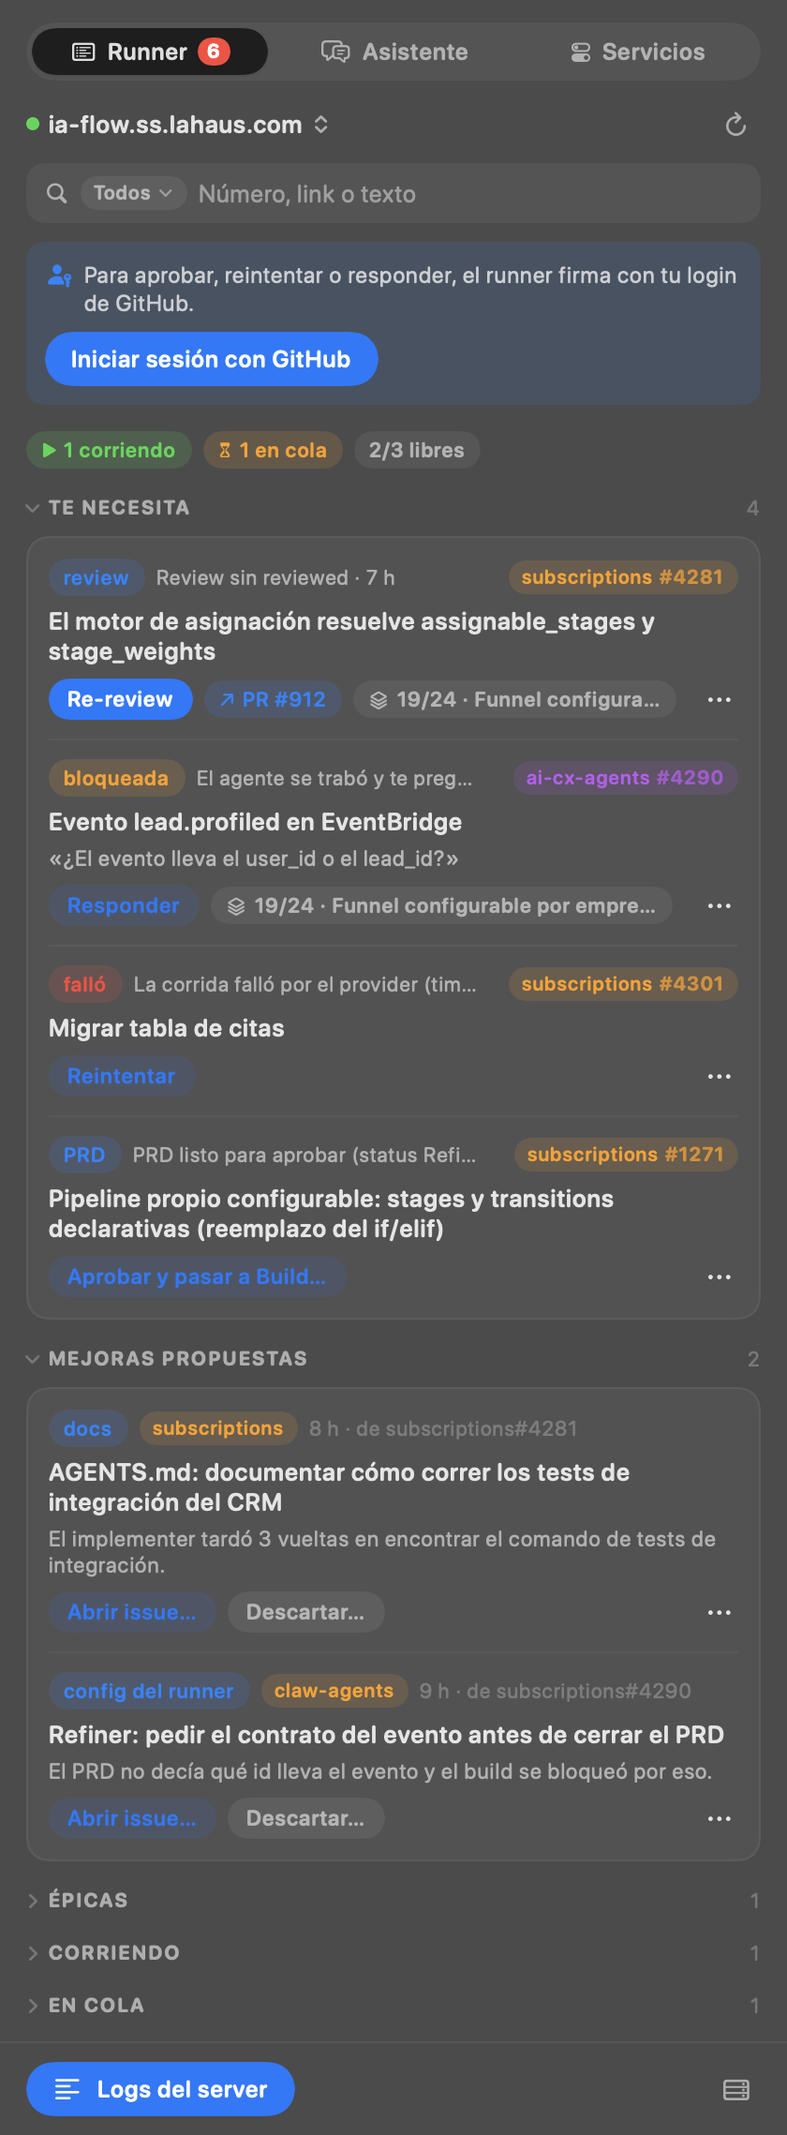
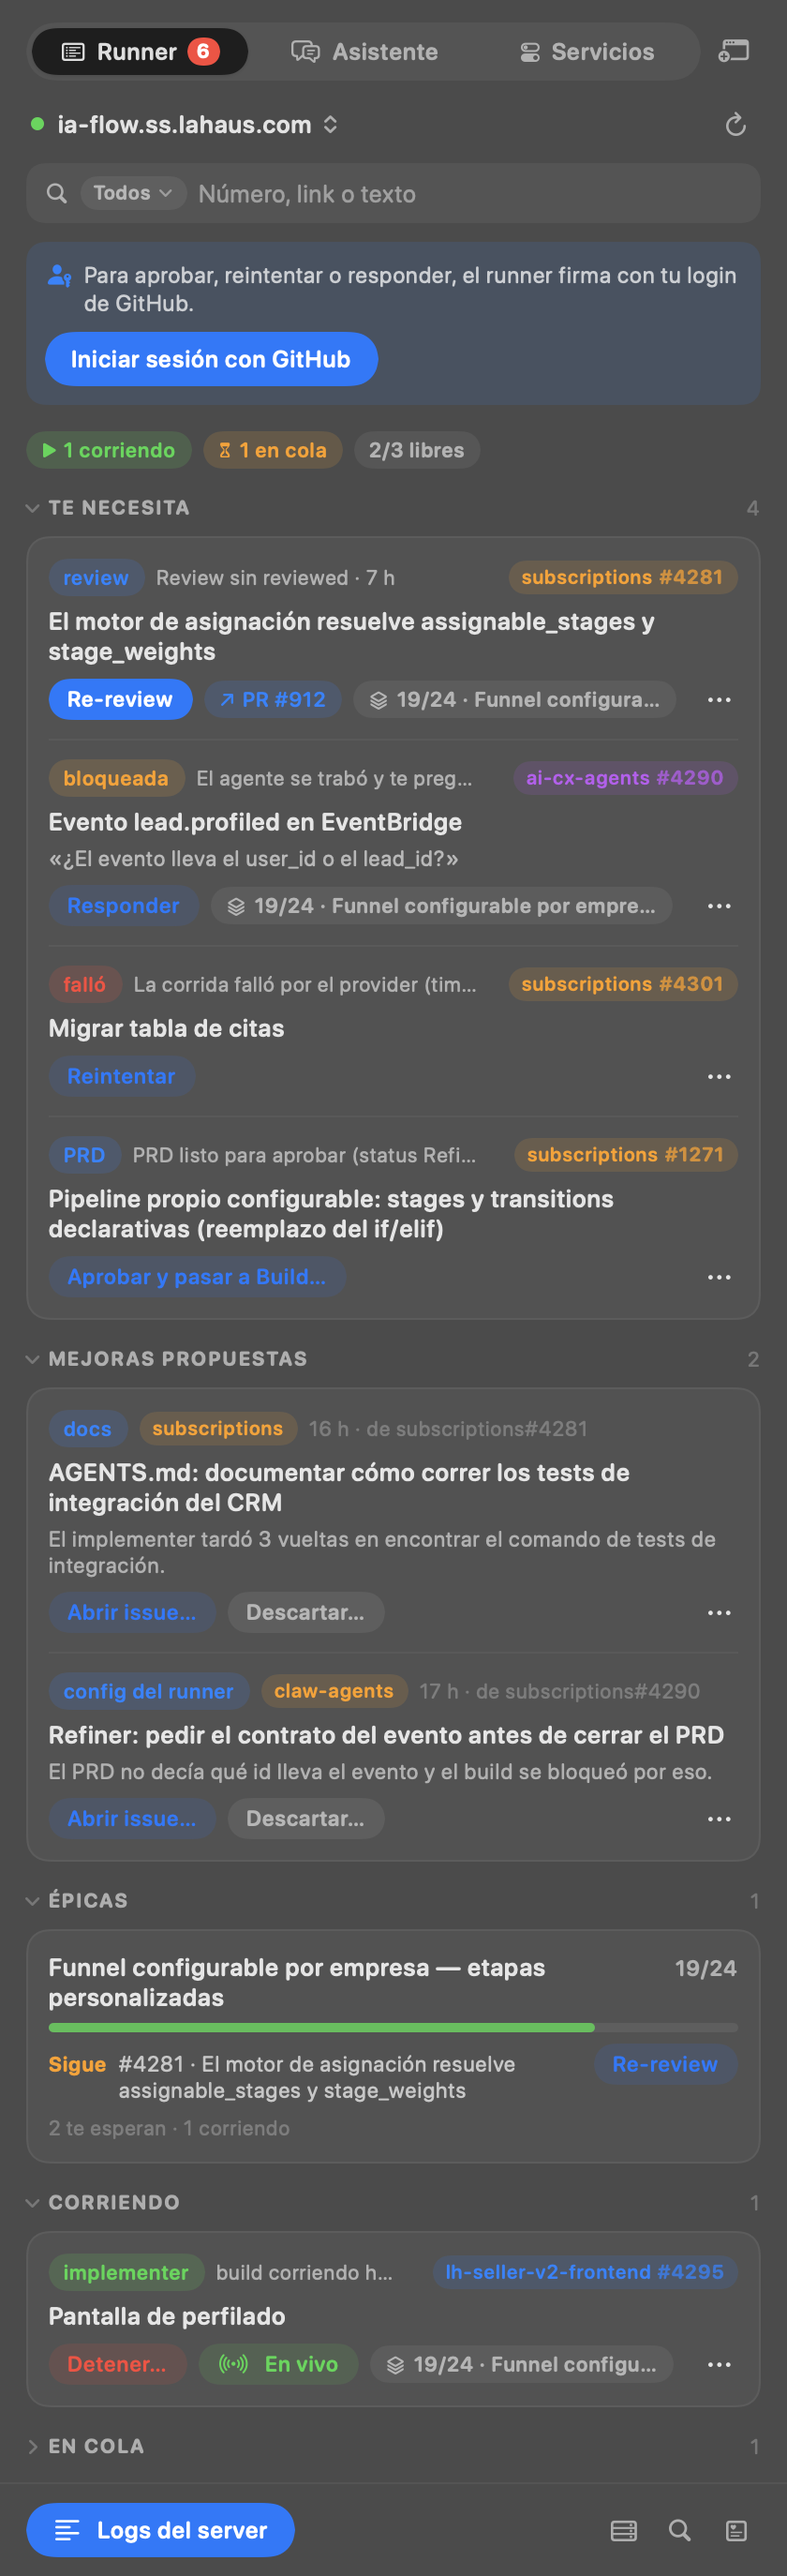
docs(menubar): «Buscar en GitHub», el stream y sus capturas

diff --git a/apps/menubar/README.md b/apps/menubar/README.md
@@ -40,12 +40,24 @@ con su acción), las **mejoras propuestas** por la retrospectiva (abrirlas como 
 **corre** (con «Detener…») y la **cola**. Cada sección se colapsa con un clic en su título.
 **Buscador:** un tag al inicio elige el repo (o todos; filtra todo aunque no se escriba nada) y cada tarea lleva el tag de su repo, del mismo color. Acepta `1775`, `#1775`, `subscriptions#1775`, `la-haus/subscriptions#1775`, el link del issue o del
 PR, o texto del título (aproximado: sin tildes, palabras en cualquier orden, prefijos y typos); filtra todas las secciones (buscar una épica trae sus tareas) y busca también en el resto
-del board (`/api/board`): las primeras coincidencias se traen con sus acciones (`/api/tasks/:owner/:repo/:n`). Con
-login de GitHub busca además en **todos los repos de la organización** (aunque no estén en el board): issues por
-título (`search/issues`, desde 3 letras, respeta el repo elegido), la ref exacta (`repo#n` también de un repo
-fuera del board) o un número suelto (se pide en el repo elegido, o en los del board y los 15 de actividad más
-reciente, en paralelo); el tag de repo suma «Más repos de la organización» (todos los que ve tu login); va directo a api.github.com con tu
-token, sólo lee y cada resultado sólo se abre en el navegador —no pasa por el runner ni toca el board—. **En vivo:** una tarea que corre trae «En vivo» (y cualquier tarea, «Ver la última ejecución» en ⋯): la traza de la
+del board (`/api/board`): las primeras coincidencias se traen con sus acciones (`/api/tasks/:owner/:repo/:n`). Es
+sólo del runner; termina en «Buscar «…» en GitHub →», que abre la pantalla de GitHub con lo escrito y el repo del tag.
+
+**Buscar en GitHub** (la 🔍 al pie de la bandeja): issues y PRs de **cualquier repo de la organización**, estén o no
+en el board. Un selector de repo propio, filtrable (todos los que ve tu login, `GET /orgs/:org/repos`, cache 1 h): los
+del board primero, después por actividad; recuerda el último. Con un repo, un número va directo a ese issue o PR y el
+texto busca en el título; con toda la organización, el texto busca por título (`search/issues`, desde 3 letras) y un
+número pide elegir repo (GitHub no busca por número en toda la org). `repo#n`, `owner/repo#n` y el link van directo.
+Va a api.github.com con tu login, sólo lee y cada resultado sólo se abre en el navegador: no pasa por el runner ni
+toca el board.
+
+**Al día:** con el popover o la ventana abiertos, el menú escucha `GET /api/stream` (SSE, como la web) y relee la
+bandeja y las mejoras cuando algo cambia (varios cambios seguidos, una sola relectura); «En vivo» se relee con la traza
+de su ejecución. El puntito del server lleva un halo mientras el stream está conectado. Si se corta, reconecta (1 s …
+30 s); tras 3 fallas (o con un runner sin stream) vuelve a releer la bandeja cada 6 s. Con todo cerrado no queda
+ninguna conexión: sólo el badge, cada minuto.
+
+**En vivo:** una tarea que corre trae «En vivo» (y cualquier tarea, «Ver la última ejecución» en ⋯): la traza de la
 ejecución que el runner guarda mientras corre (`GET /api/tasks/:owner/:repo/:n?execution=`, cada 3 s), plegada en pasos —
 cada tool una vez con su descripción o comando, el resultado y cuánto tardó (clic para ver input y resultado), los
 avisos del workspace, el prompt—, qué está haciendo ahora, tokens y duración; las ejecuciones anteriores en el reloj
@@ -57,6 +69,8 @@ tareas y mejoras que te esperan en el runner elegido (se relee cada minuto con e
 ![runner](screenshot-runner-dark.png)
 
 ![en vivo](screenshot-run-dark.png)
+
+![buscar en GitHub](screenshot-search-gh-dark.png)
 
 **Pestaña «Asistente»:** el chat del asistente del runner (`POST /api/assistant`, streaming), sobre todo el runner
 o sobre una tarea («Preguntar sobre esta tarea…» en el ⋯ de cada fila). Lo que propone (una acción sobre una tarea,
@@ -75,8 +89,9 @@ sigue llegando aunque se cierre el popover.
 Estructura: `Core.swift` (config, cloudflared y API de Cloudflare), `Service.swift` (proceso, detached o adoptado),
 `Model.swift` (estado y acciones), `Components.swift` y `Views.swift` (SwiftUI), `Icon.swift` (glifo y badge),
 `RunnerAPI.swift` (cliente HTTP del runner y su contrato), `RunnerModel.swift` (estado de la pestaña Runner),
-`RunnerViews.swift` (sus pantallas), `RunnerSearch.swift` (qué se busca y qué coincide), `GithubSearch.swift` (la
-búsqueda en toda la organización), `RunTrace.swift` (la traza de
+`RunnerViews.swift` (sus pantallas), `RunnerSearch.swift` (qué se busca y qué coincide), `RunnerStream.swift` (el
+stream SSE), `GithubSearch.swift` (la API de GitHub), `GithubSearchModel.swift` y `GithubSearchViews.swift` (la
+pantalla «Buscar en GitHub»), `RunTrace.swift` (la traza de
 una ejecución plegada en pasos), `RunWatch.swift` y `RunTraceViews.swift` (la pantalla «En vivo»), `RunnerHealth.swift` y `RunnerHealthViews.swift`
 (el estado del runner), `AssistantAPI.swift`, `AssistantModel.swift` y `AssistantViews.swift` (el chat), `main.swift` (barra de estado y popover). `main.swift --screenshot <base>` regenera las capturas con datos de ejemplo
 (`IA_FLOW_MENUBAR_HOME=<dir vacío>` para no tocar la config real).
